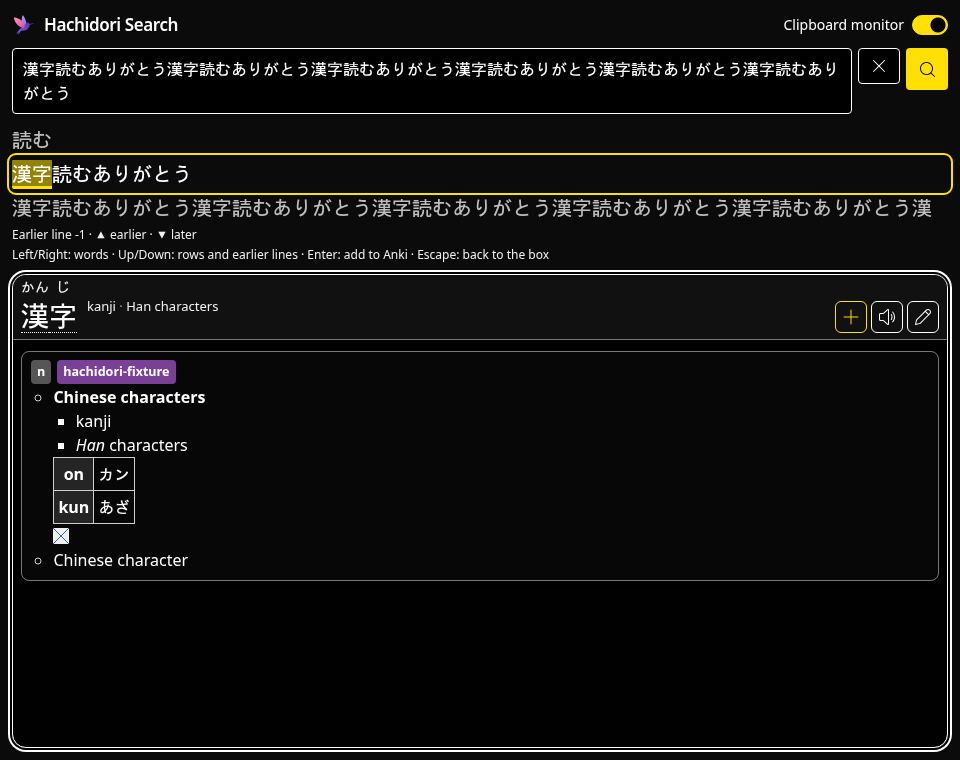
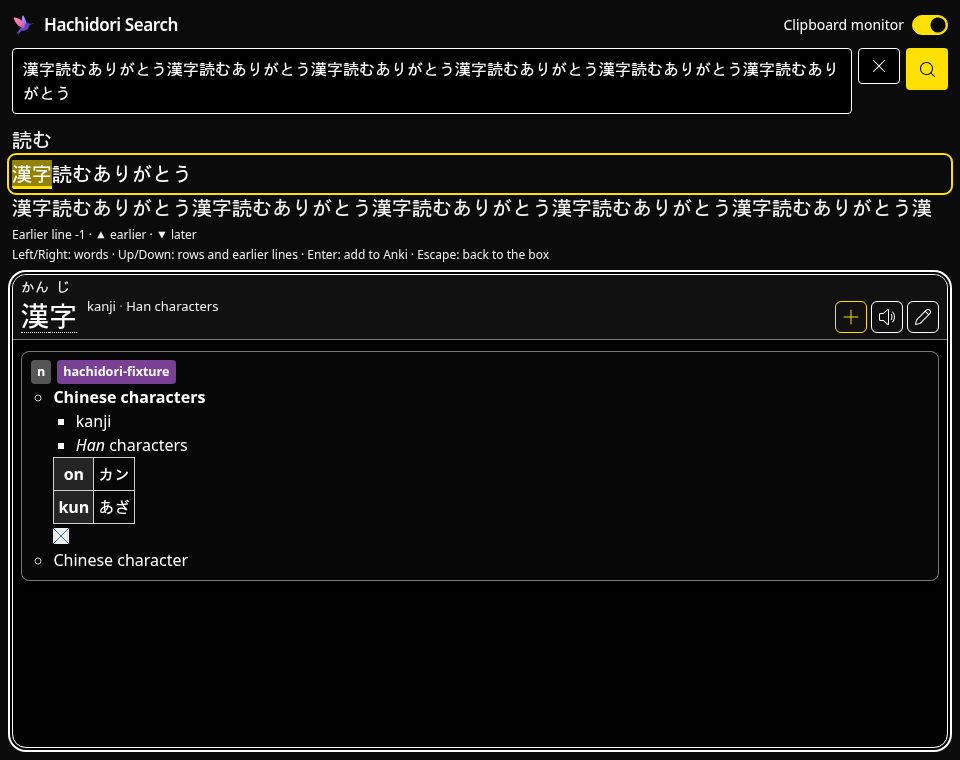
Search history media: screenshots at 4856496b with Solarized Light, long-text key timings, corrected 10,000-line note

diff --git a/search-history/README.md b/search-history/README.md
@@ -15,7 +15,9 @@ the script builds, with glosses written for it; the lines arrive through the
 Clipboard monitor from another tab, in a copy of the extension that holds
 `clipboardRead`, as the Chrome suite does. The captions are the script's, laid
 over the page; the red dot marks a click, which headless screenshots do not
-show.
+show. `531b7f0c` is `68f0abbd` on the branch rebased onto #664. The GIFs
+predate `916e9e7b`, which gives the dimmed neighbour rows the palette's dim
+text colour: in them those rows are fainter than they are now.
 
 | File | Shows |
 | --- | --- |
@@ -30,10 +32,13 @@ HACHIDORI_CHROME=<chrome 152> node scripts/capture-search-history-gifs.mjs <repo
 ## Screenshots
 
 `HACHIDORI_SEARCH_SCREENSHOTS=DIR node test/chrome-search-history.mjs` on the
-PR at `598ee675`: an earlier line's visit (the searched text with its cursor,
-the dimmed neighbours and the keys) in the default, Girlypop (light) and High
-contrast palettes and with forced colours emulated, and Settings → Reading →
-Search page.
+PR at `4856496b` (the search page of `be12ad14`, which rebases it onto #664's
+Anki changes): an earlier line's visit (the searched text with its cursor, the
+dimmed neighbours and the keys) in the default, Girlypop (light), Solarized
+Light and High contrast palettes and with forced colours emulated, and
+Settings → Reading → Search page. Solarized Light is the palette where the
+neighbour rows were faintest before `916e9e7b` (3.10:1); the Chrome suite now
+checks those rows at 4.5:1 or more in all 42 palettes.
 
 ## Benchmark
 
@@ -55,5 +60,28 @@ in milliseconds:
 | Up past the top row to the earlier line shown and looked up (n = 6) | – | 14.6 / 15.3 | 14.9 / 17.7 |
 
 The line is kept alongside the lookup, not before it. The first line of a page
-opens the database (the 90th percentiles); with 10,000 lines each line costs
-about 6 ms more for the limit's count, off the lookup's path.
+opens the database (the 90th percentiles). With 10,000 lines kept, Enter to
+the line kept took about 6 ms longer at the median, off the lookup's path. The
+independent audit timed the store's own `add()` at the limit at 0.9–1.0 ms and
+`count()` at 0.3 ms with 10,000 lines (its probe A2), so most of that 6 ms is
+elsewhere between Enter and the `line` event; it has not been broken down.
+
+## Arrow keys on a long text
+
+`scripts/probe-longtext.mjs` (the audit's probe I, which pastes a text of
+100 to 20,000 characters outside a field and times one key's synchronous
+handling in the searched text) in headless Chrome 152, load average 40–45,
+alternating `a765b36f` (each key measures every character) and the PR at
+`4856496b` (rows read once for each text and size), two runs each. A first
+press after the text appears, then the medians of four more Rights and three
+Downs per run, in milliseconds (raw samples in `benchmark/long-text/`):
+
+| characters | first press, `a765b36f` / PR | a later Right | a later Down |
+| ---: | ---: | ---: | ---: |
+| 100 | 2.3–2.4 / 2.2–2.4 | 1.3–1.4 / 0.7 | 1.0–1.2 / 0.5–0.7 |
+| 1,000 | 6.9–7.2 / 6.7–7.3 | 8.4–9.5 / 0.4–0.5 | 6.5–6.8 / 0.4–0.5 |
+| 5,000 | 35–49 / 37–52 | 35–50 / 0.4 | 34–35 / 0.5–0.6 |
+| 20,000 | 222–228 / 180–227 | 202 / 0.4 | 186–216 / 0.5–0.7 |
+
+The first press still measures the whole text, as before, and varies as much
+between runs of one head as between the heads.
